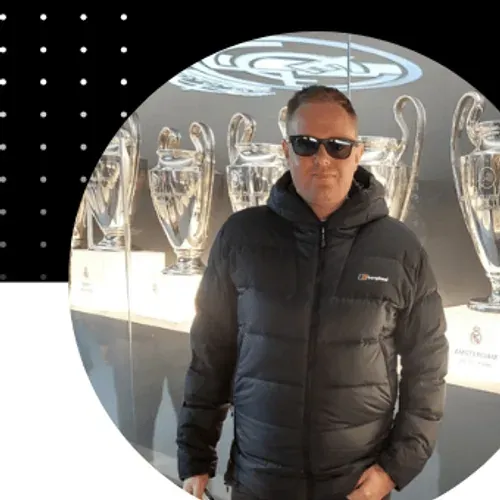
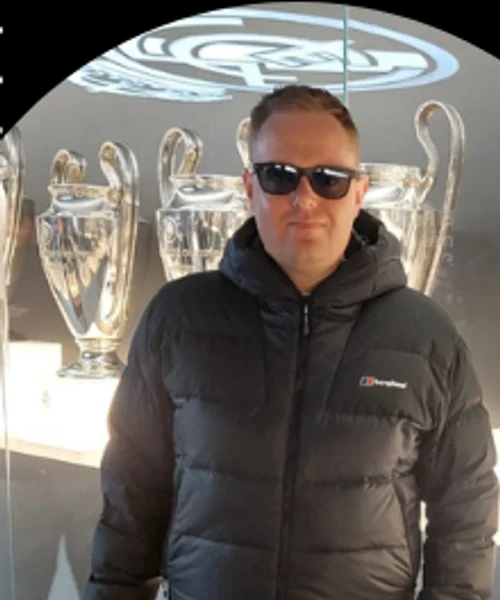
quote slider: tight face crops + landscape aspect on mobile so whole card fits one screen
Swap: Vish's before/after now leads the quote slider (was Matt Hadman).

Every headshot re-cropped hard to face + shoulders only (portrait
500x600 WebP) so no baked-in social-post border, dot pattern or dark
corner shows inside the full-bleed photo. Rob, Steve and Ben re-cropped
from the original 1280x720 source banners; Matt, Sanchia and Darren
re-cropped from the pre-crop 340/350px sources restored from git so the
starting pixels weren't already trimmed.

Aspect ratio: photo goes to 3:2 landscape on mobile (was 1:1 square) so
photo+caption+quote+metric fit inside a single mobile viewport. Desktop
keeps 4:5 portrait. Vish/Kieran collages stay full 1:1 on desktop but
adopt the 3:2 crop on mobile — horizontal collage survives that crop
because the important content sits center.

Card internals tightened: qc-meta padding 20/24→14/18px mobile,
qc-right 28/24→22/20px, quote font-size clamp 20/2.3vw/28→18/2.1vw/26,
metric 13.5→12.5px, all margins trimmed accordingly. Card comfortably
fits inside 600px height on 390x844.

diff --git a/app/globals.css b/app/globals.css
@@ -171,22 +171,29 @@ iframe.emb { width: 100%; aspect-ratio: 16/9; border: 0; display: block; }
 .s-res li:before { content: ""; position: absolute; left: 0; top: 12px; width: 7px; height: 7px; background: var(--gold); }
 .s-quote { margin-top: 14px; padding-top: 14px; border-top: 1px solid var(--border); font-family: Georgia, serif; font-style: italic; font-size: 17.5px; line-height: 1.5; color: var(--navy); }
 
-/* QUOTE SLIDER — full-bleed square photo left, navy quote right */
+/* QUOTE SLIDER — compact photo on mobile so a whole card fits one screen */
 .track-q .slide { flex: 0 0 100%; background: var(--navy); border-color: var(--navy); flex-direction: column; }
 @media (min-width: 820px) { .track-q .slide { flex-direction: row; align-items: stretch; } }
 .qc-media { background: #fff; display: flex; flex-direction: column; padding: 0; }
-@media (min-width: 820px) { .qc-media { flex: 0 0 42%; } }
-.qc-photo { width: 100%; aspect-ratio: 1 / 1; overflow: hidden; background: #e9e7e2; position: relative; }
+@media (min-width: 820px) { .qc-media { flex: 0 0 40%; } }
+.qc-photo { width: 100%; aspect-ratio: 3 / 2; overflow: hidden; background: #e9e7e2; position: relative; }
+@media (min-width: 820px) { .qc-photo { aspect-ratio: 4 / 5; } }
 .qc-photo img { width: 100%; height: 100%; object-fit: cover; object-position: center top; }
-.qc-meta { padding: 20px 24px 24px; text-align: center; margin-top: 0; }
-.qc-meta.no-photo { padding: 48px 24px; }
-.qc-name { font-family: Georgia, serif; font-size: clamp(22px, 2.2vw, 28px); color: var(--navy); line-height: 1.15; }
-.qc-role { font-size: 12px; letter-spacing: .09em; text-transform: uppercase; color: var(--muted); margin-top: 8px; line-height: 1.5; max-width: 32ch; margin-left: auto; margin-right: auto; }
-.qc-stars { margin-top: 12px; }
-.qc-right { flex: 1; display: flex; flex-direction: column; justify-content: center; padding: 28px 24px; color: #fff; }
-@media (min-width: 820px) { .qc-right { padding: 36px 40px; } }
-.qc-quote { font-family: Georgia, serif; font-size: clamp(20px, 2.3vw, 28px); line-height: 1.35; color: #fff; }
-.qc-metric { margin-top: 18px; padding-top: 16px; border-top: 1px solid var(--border-dark); font-size: 13.5px; color: var(--gold); letter-spacing: .03em; line-height: 1.55; }
+/* Vish before/after + Kieran are 1:1 collages. On mobile use the same
+   landscape aspect as other cards so the whole card fits one screen;
+   on desktop show them full (1:1) since horizontal room is available. */
+.qc-photo-wide img { object-position: center center; }
+@media (min-width: 820px) { .qc-photo-wide { aspect-ratio: 1 / 1; } }
+.qc-meta { padding: 14px 18px 18px; text-align: center; margin-top: 0; }
+@media (min-width: 820px) { .qc-meta { padding: 18px 22px 22px; } }
+.qc-meta.no-photo { padding: 36px 18px; }
+.qc-name { font-family: Georgia, serif; font-size: clamp(20px, 2vw, 26px); color: var(--navy); line-height: 1.15; }
+.qc-role { font-size: 11px; letter-spacing: .08em; text-transform: uppercase; color: var(--muted); margin-top: 6px; line-height: 1.45; max-width: 32ch; margin-left: auto; margin-right: auto; }
+.qc-stars { margin-top: 10px; }
+.qc-right { flex: 1; display: flex; flex-direction: column; justify-content: center; padding: 22px 20px; color: #fff; }
+@media (min-width: 820px) { .qc-right { padding: 32px 36px; } }
+.qc-quote { font-family: Georgia, serif; font-size: clamp(18px, 2.1vw, 26px); line-height: 1.35; color: #fff; }
+.qc-metric { margin-top: 14px; padding-top: 12px; border-top: 1px solid var(--border-dark); font-size: 12.5px; color: var(--gold); letter-spacing: .03em; line-height: 1.5; }
 
 /* OBJECTIONS */
 .obj { display: grid; gap: 1px; background: var(--border); }

diff --git a/app/page.tsx b/app/page.tsx
@@ -79,12 +79,12 @@ const RESULTS: Result[] = [
 ];
 
 const QUOTES: Quote[] = [
-  { photo: "/images/headshot-matt-hadman.webp", name: "Matt Hadman", role: "Head of Dental Groups, Patient Plan Direct",
-    metric: "10kg lost in four months · works fewer hours and is more productive",
-    quote: "From a diet point of view, I'm in a place where I've never been in my whole adult life." },
   { photo: "/images/vish-before-after.webp", wide: true, name: "Vish", role: "Dentist",
     metric: "61.7 lbs lost in seven months",
     quote: "Family members couldn't even recognise me." },
+  { photo: "/images/headshot-matt-hadman.webp", name: "Matt Hadman", role: "Head of Dental Groups, Patient Plan Direct",
+    metric: "10kg lost in four months · works fewer hours and is more productive",
+    quote: "From a diet point of view, I'm in a place where I've never been in my whole adult life." },
   { photo: "/images/headshot-darren.webp", name: "Darren Hill", role: "General dentist, Dublin",
     metric: "12kg lost · VO2 max, HRV and resting heart rate all at personal bests",
     quote: "You've helped me remove the ceiling of what I thought I was capable of achieving." },
@@ -624,7 +624,7 @@ export default function Page() {
                 <article className="slide" key={i}>
                   <div className="qc-media">
                     {q.photo && (
-                      <div className="qc-photo">
+                      <div className={`qc-photo${q.wide ? " qc-photo-wide" : ""}`}>
                         {/* eslint-disable-next-line @next/next/no-img-element */}
                         <img src={encodeURI(q.photo)} alt={q.name} />
                       </div>
